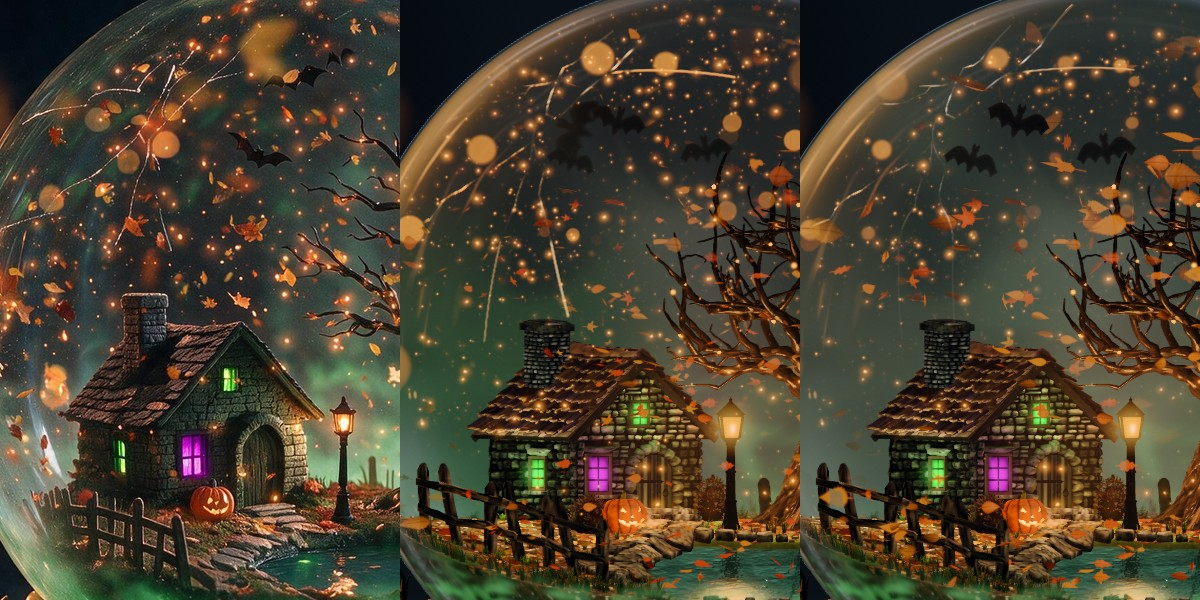
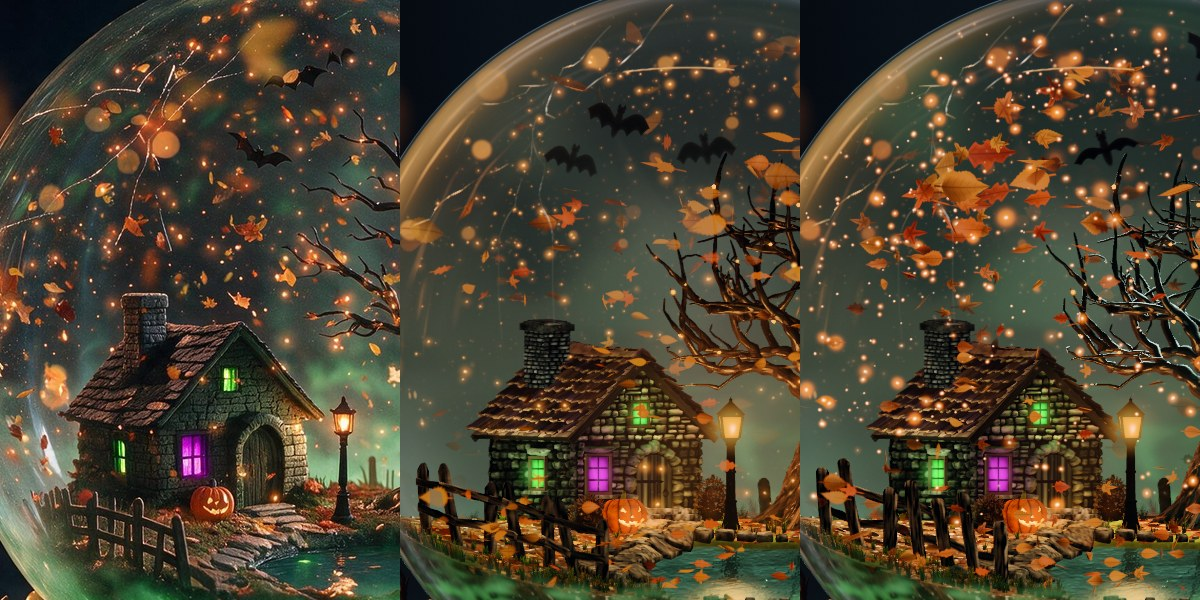
Fall's air, third list: looks and handover

diff --git a/HANDOVER.md b/HANDOVER.md
@@ -1,27 +1,32 @@
 # Fall's air, handover
 
-Branch `agent/p6-fall-air`. Second list (leaves, discs, pale lines, mist, sparks, bats).
+Branch `agent/p6-fall-air` at de2c4dce (merge of main fe261991). Third list: leaves, sparks, bats, upper air, the storm at the landing.
 
-## What is in it
-- `src/particles/draw/cards.ts`, `src/particles/draw/looks.ts`: leaves at rest take their own size (`leafRestMm`, 1.35 to 2.9 mm), linger with the face to the eye (`leafFace`), are fewer at the right (`leafRestRight`), before the cottage (`leafRestCottage`) and none at the limb (`leafRestRim`); more rust and dark ones (`leafRed`, `leafDark`, `leafShade`). Sparks at rest: fewer specks (`sparkRestSkew`, `sparkRestClear`; the storm keeps `sparkSkew` and `sparkClear` as before), fewer and softer discs of several sizes (`spark.nearShare`, `nearField`, `discEdge`, `discVary`), thinned at the rim. Bats 2.1.
-- `src/seasons/fall/glass.ts`: the long pale lines were the crack; now `bright` 1.5 (was 3.6), `bowMm` 1.5, `spreadPx` 1.25, a neutral tint. A mist (`mist...`, shader `MIST`, mesh `makeMist`) on the inner wall at render order 4.5, before the particles, so bats, leaves and sparks stand before it; the mesh is a whole ring drawn back faces only, so only the far half shows whichever way the ball is turned; it fades with the storm (`uFog.y`). `tests/no-air.test.ts` line 113 names its render order among fall's air (by grant). `airRest` halves the orange dust at rest; `hazeWarm` takes the warm light out of the low haze. The crack's sphere went from 96 x 64 to 96 x 58 so fall's triangles are not more (high 1,790,853 against main's 1,791,317; 68 draw calls against 66).
-- `config/showcase.json`: fall's bats 3.
+## What the third list put in
+- `src/particles/draw/cards.ts`: the leaf's edge line reads `CARD.leafEdge` (leaf only); the bat's wing chord is slimmed by `CARD.batSlim`; at rest the dim sparks go and the ones that stay take the core (`keepC` by the spark's own number to the fourth power); the halo's radius at rest differs spark by spark (`restHaloVary`); the hot core is not cut by the spark's life at rest. Only the spark, leaf and bat branches changed; winter's, spring's and summer's six stills are the same bytes as main's.
+- `src/particles/draw/looks.ts`: `leafShade`, `leafEdge`, `leafSheen`, `leafMost`, `leafGold`; `sparkRestSkew`, `sparkRestClear`; the spark's `rest...` numbers; `batRestTilt`, `batSlim`, `batRaise`.
+- `src/particles/engine/kinds.ts`: bat `sizeMm` [5, 6.6]. `config/showcase.json`: fall's bats 2. `src/seasons/fall/veil.ts`: the leaf colour.
+- `src/seasons/fall/glass.ts`: the pooled fog's sheets draw at render order 4.6 (was 5.5), before the particles at 5 and after the mist at 4.5, so leaves, sparks and bats stand before the storm's fog; the fog is paler, nearer mint and brighter when lifted (`tintLifted`, `paleLifted`, `glowStorm`); the mist is darker, greener and patchy (`mistPatch`, `mistTop`, `mistAir`, `mistEven`).
+- `tests/no-air.test.ts` line 113 (by grant): fall's air orders are [4.5, 4.6, 5.4]; the same three meshes.
 
-## Read (head 71340c5b on main fe0f0202; before is main 99712bfc, one line of the glass's limb older; hd, review tier, the M3 comparison picture, inside the ball above the ground band)
-- Orange blobs by area (1 to 3, 4 to 14, 15 to 39, 40 to 119, 120 and over): approved 206 112 59 43 14; before 443 205 86 30 15; after 334 123 46 39 18.
-- The scene with one leaf and one ember already reads 191 49 3 0 1 (rim 79, roof 32, tree 61, open air 19 in the smallest class), so the smallest class cannot reach the approved's 206 through the air.
-- By place after (rim, roof, tree box, open air): 42 7 3 1 3; 49 12 2 3 0; 108 53 19 14 7; 135 51 22 21 8. Approved: 33 9 2 3 1; 10 6 0 1 0; 61 43 18 17 3; 102 54 39 22 10.
-- Upper third: approved mean 57 53 48, median luminance 51.5; before 63 54 47, 40.8; after 62 58 51, 49.8.
-- Peaks (total, crown box, outside): approved 2372 888 1484; before 1704 705 999; scene alone (an older scene) 832 371 461; after 1388 621 767.
+## Read (hd, review tier, d75dd46b unless said; approved first)
+- Orange blobs by area (1 to 3, 4 to 14, 15 to 39, 40 to 119, 120 and over): 206 112 59 43 14; before 334 123 46 39 18; after 411 115 46 38 24. The scene without the air alone reads 197 55 14 1 1.
+- Peaks (all, crown box, outside): 2372 888 1484; before 1388 621 767; after 1893 962 931; the scene without the air 805 293 512.
+- Leaf blob medians: 15 to 39 px 157 94 56 against 159 97 52; 40 to 119 px 160 94 55 against 175 102 48 (red 15 over, outside the 12).
+- Upper third luminance 10/25/50/75/90: 13.5 32.9 51.5 66.4 92.8 against 15.0 39.7 49.6 76.0 127.3. Inside 0.85 of the radius: 41.2 47.7 57.4 74.0 103.0 against 40.6 44.2 51.4 70.4 107.0. The rim zone: 11.7 13.1 16.5 50.2 66.9 against 13.9 15.1 16.9 105.5 155.3 (the warm band).
+- Bats at rest: approved two, span 63 px, middles near (935,187) and (898,262); here two, span 57 and 70 px, middles (1054,174) and (945,258).
+- Storm, the glass of the landed still against the approved shake (de2c4dce): mean 130 120 82 against 119 104 66; luminance 10/50/90 74 116 175 against 59 106 148; share over 150: 0.21 against 0.09.
+- Fall high 1,789,083 triangles (main's a55e7ee6 the same), 68 draw calls. With the mist hidden: 1,787,243 and 66; the two extra calls are the mist's one mesh drawn in two passes.
+- M3 fall 0.7228 (base 0.723, miniature 1.405; with the mist hidden 1.395). M4 0.9694 0.9049 0.9546 0.9602, M5 0.993 1 0.9688 0.9997.
 
 ## Still short of the approved, worst first
-1. Sparks: the approved's are crisp white hot cores with an orange halo and there are far more dim ones; ours are softer, paler gold and fewer. The blob count and the peak count pull against each other: halving the specks took the peaks from 1704 to 1388.
-2. Leaves: flatter lit and paler (ochre) than the approved's vivid orange with highlights; the 15 to 39 px class is 46 against 59. The share of whole leaves at rest is capped by `CARD.chosen[1]`, a shared number not in this brief.
-3. The mist is an even pale grey green over the upper air; the approved's upper air is darker teal with warm glows and mottled green patches. The 90th percentile of luminance in the upper third is 116 against 93.
-4. A warm pale band along the upper left rim (the glass, not the air).
-5. Specks before the roof (49 against 10) and at the rim (42 against 33) come from the scene.
-6. M3 fails on the base part (0.700), which is the pedestal's region, not the air; the miniature part reads 0.824.
+1. Sparks: the smallest blob class rose (411 against 206) because each hot core now has a halo whose fragments count; the approved's sparks are finer and more of its brightest ones are orange. Peaks outside the crown box 931 against 1484.
+2. The warm pale band along the upper left rim (157 121 72 where the approved has 68 61 47) is in the still without the air (152 110 63) and with the mist hidden (156 112 65): the shell or the room, not the air.
+3. The bottom of the ball at the front: the pooled fog's bright band stands about 12 px lower than where the approved's vines begin (fall-lip-pair.jpg). It is the fog of `glass.ts`; one trial that faded the lip mesh above the collar at the front moved no pixel, so the band is drawn elsewhere (the fog's sheets, or the lens shows another part of the wall there). Not mended.
+4. Bats: the upper one is about 110 px right of the approved's place and both are softer than the approved's crisp ones.
+5. Leaves: the 40 to 119 px class is 15 levels too red; most leaves are larger than the approved's many small ones.
+6. Storm: the share of pale streaks (0.09 against 0.21) and the brightness low in the ball.
 
-## Not done
-- The change into fall at film frame 2116 went to the change's finisher.
-- Not seen: the mist with the ball turned by hand (the live orbit goes to 35 degrees); the storm frame without the mist beside the one with it.
+## Not seen
+- The mist with the ball turned was seen only on the drag sheet (12 frames of 383 px, yaw to 35 degrees), not at full size.
+- Nothing was measured on main d13d29c6 (fall's base third list); the branch is not merged with it.
